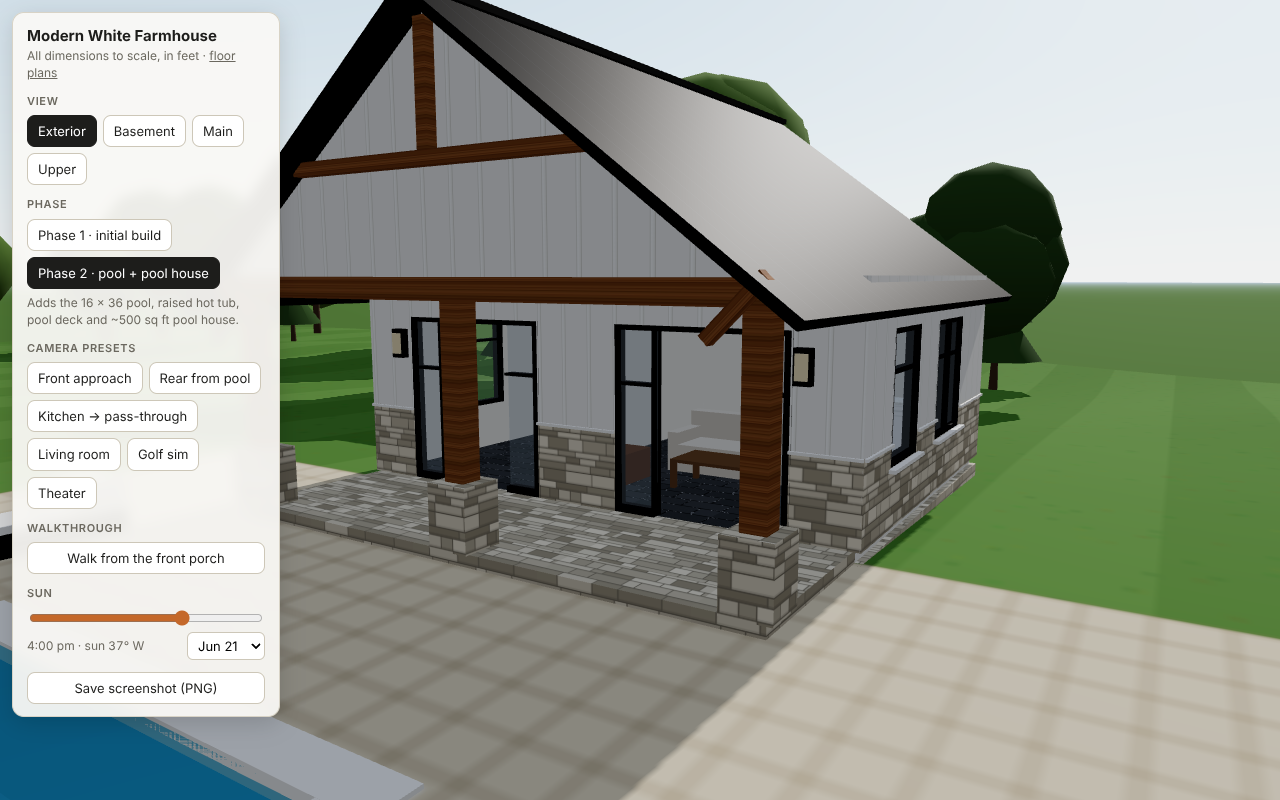
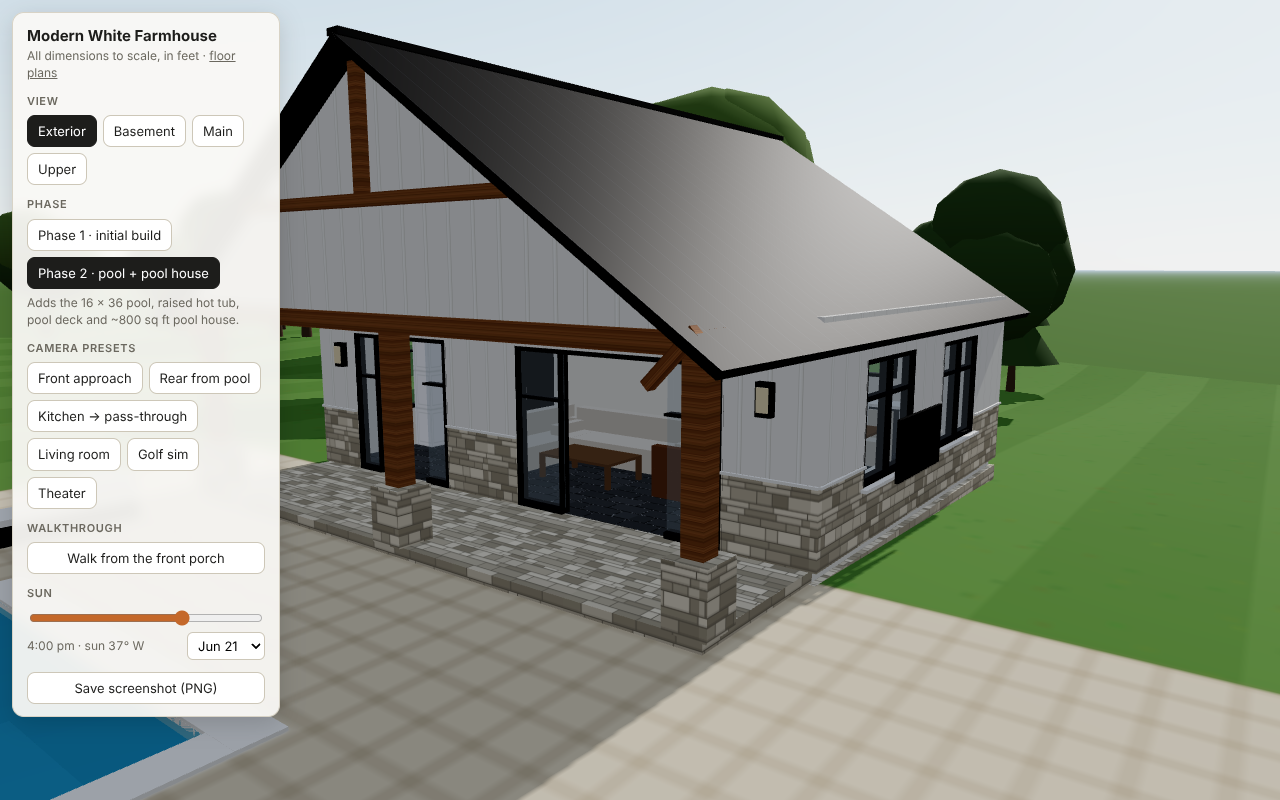
Enlarge pool house to 800 sq ft with a gathering room
- Pool house 32 x 25 (800 sq ft): vaulted gathering room 24 x 25 with
  sectional, chairs, TV wall and game table; wet bar with island and
  undercounter fridge (no kitchen); 8 x 10 full bath; entry / towel wall.
- Porch widened to 32 x 8, three cedar posts kept clear of the glass doors.
- Stub-outs S1 / S2 moved to suit the larger footprint.

Claude-Session: https://claude.ai/code/session_01XD9YHSFEoQqE2SWjbwMSnV

diff --git a/house-model/src/config/house.js b/house-model/src/config/house.js
@@ -500,8 +500,8 @@ export const site = {
   ],
   // Utility stub-outs installed in Phase 1 for the Phase 2 pool and pool house.
   stubOuts: [
-    { id: 'S1', name: 'Pool house', services: 'water · sewer · power · data', x: 16.5, y: -107 },
-    { id: 'S2', name: 'Pool equipment pad', services: '240V power · gas · water', x: 44, y: -96 },
+    { id: 'S1', name: 'Pool house', services: 'water · sewer · power · data', x: 14, y: -112 },
+    { id: 'S2', name: 'Pool equipment pad', services: '240V power · gas · water', x: 47, y: -102 },
     { id: 'S3', name: 'Hot tub', services: 'power · gas', x: 33, y: -35.5 },
   ],
 };
@@ -527,44 +527,53 @@ export const phases = {
       { type: 'lounger', x: 9,  y: -70, w: 2.5, d: 6.5, h: 1.2 },
       { type: 'lounger', x: 9,  y: -78, w: 2.5, d: 6.5, h: 1.2 },
     ],
-    // ~500 sq ft pool house across the pool from the house: white board-and-batten,
-    // black metal roof, vaulted interior, full bath, wet bar, covered porch facing the pool.
+    // ~800 sq ft pool house across the pool from the house: white board-and-batten,
+    // black metal roof, vaulted interior with a gathering area, full bath,
+    // wet bar (no kitchen), covered porch facing the pool.
     poolHouse: {
       name: 'Pool House',
       finish: 'better',
       floor: -10,                 // 6" above the pool deck
       ceiling: 9,                 // bath ceiling; the great room is vaulted to the roof
       wallTop: 10,                // eave height above its floor
-      footprint: [{ x: 13.5, y: -110, w: 25, d: 20 }],
+      footprint: [{ x: 10, y: -115, w: 32, d: 25 }],   // 32 x 25 = 800 sq ft
       rooms: [
-        { id: 'phGreat', name: 'Great Room',  use: 'living', x: 21.5, y: -110, w: 17, d: 20, finish: { floor: 'slateTile' } },
-        { id: 'phEntry', name: 'Entry',       use: 'living', x: 13.5, y: -102, w: 8,  d: 12, finish: { floor: 'slateTile' } },
-        { id: 'phBath',  name: 'Full Bath',   use: 'bath',   x: 13.5, y: -110, w: 8,  d: 8 },
+        { id: 'phGreat', name: 'Gathering Room', use: 'living', x: 18, y: -115, w: 24, d: 25, finish: { floor: 'slateTile' } },
+        { id: 'phEntry', name: 'Entry / Towels', use: 'living', x: 10, y: -105, w: 8,  d: 15, finish: { floor: 'slateTile' } },
+        { id: 'phBath',  name: 'Full Bath',      use: 'bath',   x: 10, y: -115, w: 8,  d: 10 },
       ],
       openPlan: [['phGreat', 'phEntry']],
       openings: [
-        { kind: 'glassdoor', on: 'y', at: -90, from: 16,   to: 24 },     // onto the porch
-        { kind: 'glassdoor', on: 'y', at: -90, from: 28,   to: 36 },
-        { kind: 'window',    on: 'x', at: 38.5, from: -105, to: -100 },
-        { kind: 'window',    on: 'x', at: 38.5, from: -97,  to: -93 },
-        { kind: 'window',    on: 'x', at: 13.5, from: -99,  to: -94 },
-        { kind: 'window',    on: 'y', at: -110, from: 28,   to: 34, sill: 4.5 },  // over the wet bar
-        { kind: 'window',    on: 'y', at: -110, from: 15.5, to: 18, sill: 5.5 },  // bath, high
-        { kind: 'door',      on: 'y', at: -102, from: 15,   to: 17.7, swing: -1 }, // bath
+        { kind: 'glassdoor', on: 'y', at: -90, from: 13,   to: 21 },      // onto the porch
+        { kind: 'glassdoor', on: 'y', at: -90, from: 26,   to: 38 },
+        { kind: 'window',    on: 'x', at: 42,  from: -110, to: -104 },
+        { kind: 'window',    on: 'x', at: 42,  from: -100, to: -94 },
+        { kind: 'window',    on: 'x', at: 10,  from: -101, to: -95 },
+        { kind: 'window',    on: 'y', at: -115, from: 28,  to: 36, sill: 4.5 },   // over the wet bar
+        { kind: 'window',    on: 'y', at: -115, from: 12.5, to: 15.5, sill: 5.5 }, // bath, high
+        { kind: 'door',      on: 'y', at: -105, from: 12,  to: 14.7, swing: -1 },  // bath
       ],
       furniture: [
-        { type: 'counter',   x: 25.5, y: -109.7, w: 11, d: 2, h: 3, label: 'Wet bar', sink: true },
-        { type: 'appliance', x: 31,   y: -109.6, w: 2, d: 1.9, h: 2.8 },             // undercounter fridge
-        { type: 'tall',      x: 37,   y: -109.7, w: 1.2, d: 6, h: 7 },
-        { type: 'sofa',      x: 26,   y: -101,  w: 9,   d: 3.3, h: 2.8, faces: '+y' },
-        { type: 'table',     x: 28,   y: -97,   w: 4.5, d: 2.5, h: 1.4 },
-        { type: 'chair',     x: 23,   y: -96,   w: 3,   d: 3,   h: 2.7 },
-        { type: 'shower',    x: 13.8, y: -109.7, w: 3.5, d: 3.5, h: 7.5 },
-        { type: 'counter',   x: 19.6, y: -109.7, w: 1.8, d: 3.5, h: 3, sink: true },
-        { type: 'toilet',    x: 19.4, y: -104.6, w: 1.8, d: 2.3, h: 1.4 },
+        // wet bar on the back wall (sink + undercounter fridge, no cooking)
+        { type: 'counter',   x: 26,   y: -114.7, w: 12, d: 2, h: 3, label: 'Wet bar', sink: true },
+        { type: 'appliance', x: 35,   y: -114.6, w: 2,  d: 1.9, h: 2.8 },
+        { type: 'island',    x: 27,   y: -110,   w: 9,  d: 2.5, h: 3.5 },
+        // gathering area: sectional, chairs, coffee table, TV wall, game table
+        { type: 'sofa',      x: 20,   y: -102,   w: 10, d: 3.3, h: 2.8, faces: '+y', label: 'Sectional' },
+        { type: 'sofa',      x: 18.3, y: -102,   w: 3.3, d: 8,  h: 2.8, faces: '+x' },
+        { type: 'table',     x: 23,   y: -97.5,  w: 5,   d: 3,  h: 1.4 },
+        { type: 'chair',     x: 30.5, y: -98,    w: 3,   d: 3,  h: 2.7 },
+        { type: 'tv',        x: 40.3, y: -101,   w: 1.5, d: 6,  h: 2 },
+        { type: 'table',     x: 34,   y: -108,   w: 4,   d: 4,  h: 2.5, chairs: 4 },
+        // full bath
+        { type: 'shower',    x: 10.3, y: -114.7, w: 4,   d: 4,  h: 7.5 },
+        { type: 'counter',   x: 15.9, y: -114.7, w: 1.8, d: 4.5, h: 3, sink: true },
+        { type: 'toilet',    x: 15.7, y: -109,   w: 1.8, d: 2.3, h: 1.4 },
+        // entry: towel / storage wall
+        { type: 'tall',      x: 10.3, y: -104,   w: 1.6, d: 8,  h: 7 },
       ],
-      porch: { x: 13.5, y: -90, w: 25, d: 8 },
-      roof: { id: 'poolHouse', type: 'gable', x: 13.5, y: -110, w: 25, d: 28, ridge: 'y', eave: 0, pitch: 9, overhang: 1.5 },
+      porch: { x: 10, y: -90, w: 32, d: 8 },
+      roof: { id: 'poolHouse', type: 'gable', x: 10, y: -115, w: 32, d: 33, ridge: 'y', eave: 0, pitch: 8, overhang: 1.5 },
     },
   },
 };

diff --git a/house-model/src/app/main.js b/house-model/src/app/main.js
@@ -95,7 +95,7 @@ function setPhase(ph) {
   document.querySelectorAll('#phase button').forEach((b) => b.setAttribute('aria-pressed', String(Number(b.dataset.phase) === ph)));
   document.getElementById('phaseNote').textContent = ph === 1
     ? 'Initial build: paver grid and lawn; blue-capped posts mark the utility stub-outs for Phase 2.'
-    : 'Adds the 16 × 36 pool, raised hot tub, pool deck and ~500 sq ft pool house.';
+    : 'Adds the 16 × 36 pool, raised hot tub, pool deck and ~800 sq ft pool house.';
 }
 document.querySelectorAll('#phase button').forEach((b) => b.addEventListener('click', () => setPhase(Number(b.dataset.phase))));
 setPhase(phase);

diff --git a/house-model/src/app/site.js b/house-model/src/app/site.js
@@ -144,7 +144,7 @@ function poolAndHotTub(B, M, lanterns) {
   B.box(g, M.water, sx - 1.5, sx + 1.5, h.y - 0.35, h.y - 0.25, water, zt - 0.3, { shadow: false });
 }
 
-/** Phase 2: ~500 sq ft pool house, built with the same wall / opening / floor code as the house. */
+/** Phase 2: ~800 sq ft pool house, built with the same wall / opening / floor code as the house. */
 function poolHouse(B, M, lanterns) {
   const ph = phases[2].poolHouse;
   registerLevel('poolhouse', ph);

diff --git a/house-model/README.md b/house-model/README.md
@@ -23,7 +23,7 @@ npm run build        # static site in dist/
 | **Basement / Main / Upper** | Dollhouse view of one floor: roof and floors above hidden, room names and dimensions shown. |
 | **Camera presets** | Front approach, rear from the pool, kitchen looking out the pass-through, living room, golf sim, theater. |
 | **Walkthrough** | Eye height 6'-2". Click the view to capture the mouse (or click-and-drag), WASD / arrows to move, Shift to run, Esc to release. Walls, railings and glass block you; stairs, steps and the walkout terrain are followed. |
-| **Phase** | Phase 1 (initial build: paver grid, fire pit, lawn, utility stub-out markers) or Phase 2 (adds the pool, raised hot tub, pool deck and ~500 sq ft pool house). Presets, sun and walkthrough work in both. |
+| **Phase** | Phase 1 (initial build: paver grid, fire pit, lawn, utility stub-out markers) or Phase 2 (adds the pool, raised hot tub, pool deck and ~800 sq ft pool house). Presets, sun and walkthrough work in both. |
 | **Sun** | Time-of-day slider and month. Sun position is computed from the latitude in the config; shadows, sky and window glow follow it. |
 | **Save screenshot** | Downloads the current view as a PNG. |
 
